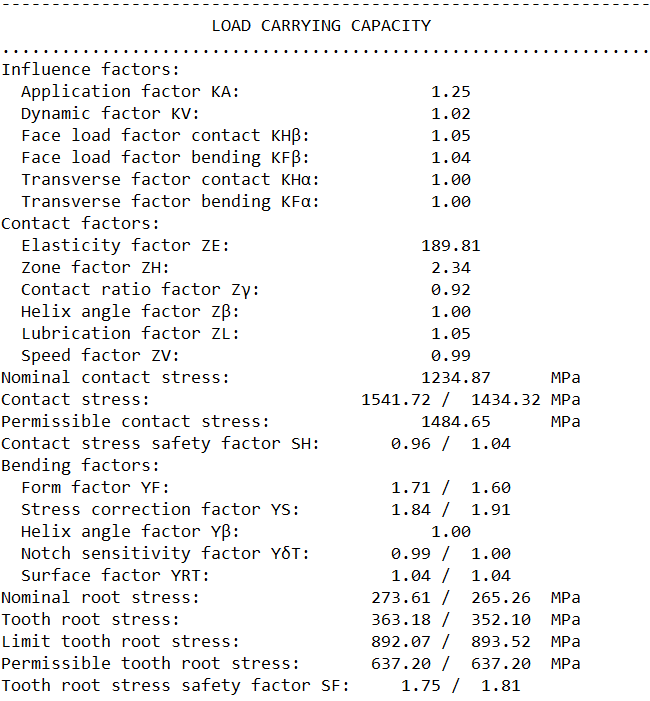
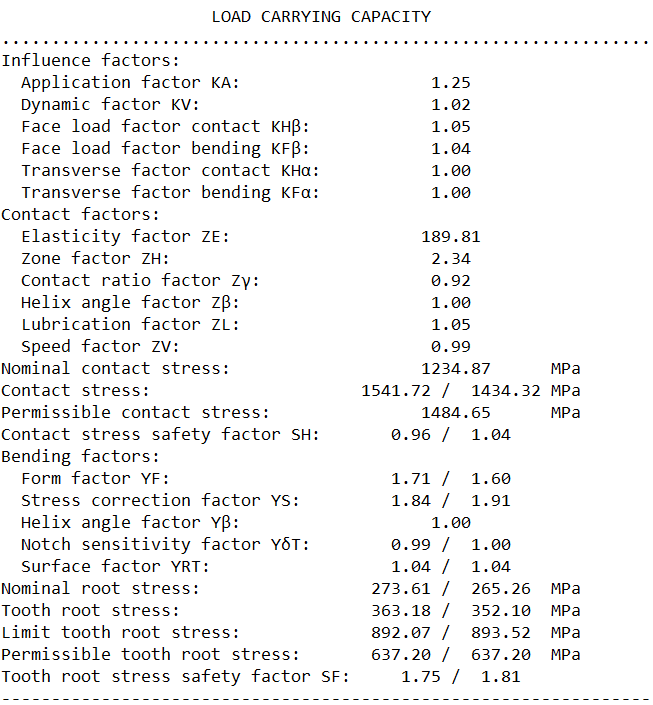
Update OUT3

diff --git a/CLASSES/OUTPUT_PRINT.py b/CLASSES/OUTPUT_PRINT.py
@@ -356,12 +356,5 @@ class PRINTING:
             'Tooth root stress safety factor SF: ', 
             ' %.2f' % GLCC.SF1 + ' / ' + ' %.2f' % GLCC.SF2, ''), 
             file=f)
-              
-              # print(sigmaHP)
-              # print(sigmaH)
-              # print('Nominal flank pressure: ' + str(sigmaH0))
-              # print('Flank pressure: ' + str(sigmaH))
-              # print('Permissible flank pressure: ' + str(sigmaHP))
-              # print('Flank pressure safety factor (SH): ' + str(SH))
-         
+        print(dash, file=f)
         f.close()
